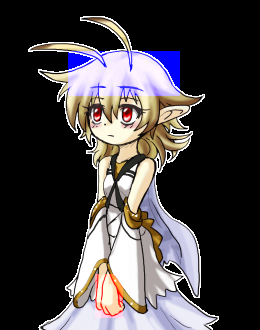
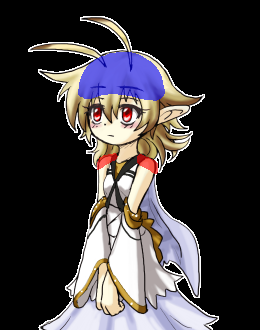
画像の差し替え

diff --git a/surfaces.html b/surfaces.html
@@ -233,7 +233,7 @@ sakura.seriko.alignmenttodesktop,free
 説明はukadocが詳しいため、ここではサンプルコードの表示と最低限の解説のみを行います。<br>
 </p>
 <p>
-今回、surfaces.txtに書くものを以下に示します。
+今回、surfaces.txtに書くものを以下に示します。<br>
 </p>
 <ul>
 <li>メインキャラの部位、「head」「hand」</li>
@@ -344,8 +344,6 @@ surface11
 ここでは、部位判定の領域を設定します。<br>
 まずは、キャラクターの頭部を設定してみることにします。<br>
 そのためには、どこからどこまでが頭なのかを指定する必要があります。<br>
-基本的に、<span class="emphasis">部位判定の領域は四角形で表され、左上と右下の座標を指定</span>します。<br>
-楕円や多角形でも指定できますが、ここでは触れません。<br>
 </p>
 <p>
 ここでは、2つの方法を説明します。<br>
@@ -359,6 +357,8 @@ surface11
 <div class="content innerdiv1">
 <p>
 まずは、Windows付属のペイントで座標を取得する方法を示します。<br>
+基本的に、<span class="emphasis">部位判定の領域は四角形で表され、左上と右下の座標を指定</span>します。<br>
+楕円や多角形でも指定できますが、ここでは触れません。<br>
 </p>
 <ol type="1">
 <li>ペイントで画像を開く</li>
@@ -445,8 +445,8 @@ surface1
 <p>
 例えば、頭と手に判定をつけたい場合、以下のような画像を作成します。<br>
 <img src="surfaces/surface0_collision.png" alt="領域設定例"><br>
-RGB値が0,0,255の部分を頭、255,0,0の部分を手として設定しています。<br>
-この例では四角形ですが、自由な形状にしたり、飛び地にしたりもできます。<br>
+RGB値が0,0,255の部分を頭、255,0,0の部分を肩として設定しています。<br>
+この例のように、自由な形状にしたり、飛び地にしたりもできます。<br>
 視覚的に見えるようにしたのが以下の画像です。<br>
 <img src="surfaces/surface0_synthesis.png" alt="領域設定合成例"><br>
 この画像を適用するsurfaces.txtの記述を以下に示します。<br>
@@ -462,14 +462,14 @@ descript
 
 surface0
 {
-	collisionex0,Hand,region,surface0_collision.png,255,0,0
-	collisionex1,Head,region,surface0_collision.png,0,0,255
+	collisionex0,Head,region,surface0_collision.png,0,0,255
+	collisionex1,Shoulder,region,surface0_collision.png,255,0,0
 }
 
 surface1
 {
-	collisionex0,Hand,region,surface0_collision.png,255,0,0
-	collisionex1,Head,region,surface0_collision.png,0,0,255
+	collisionex0,Head,region,surface0_collision.png,0,0,255
+	collisionex1,Shoulder,region,surface0_collision.png,255,0,0
 }
 
 surface10
